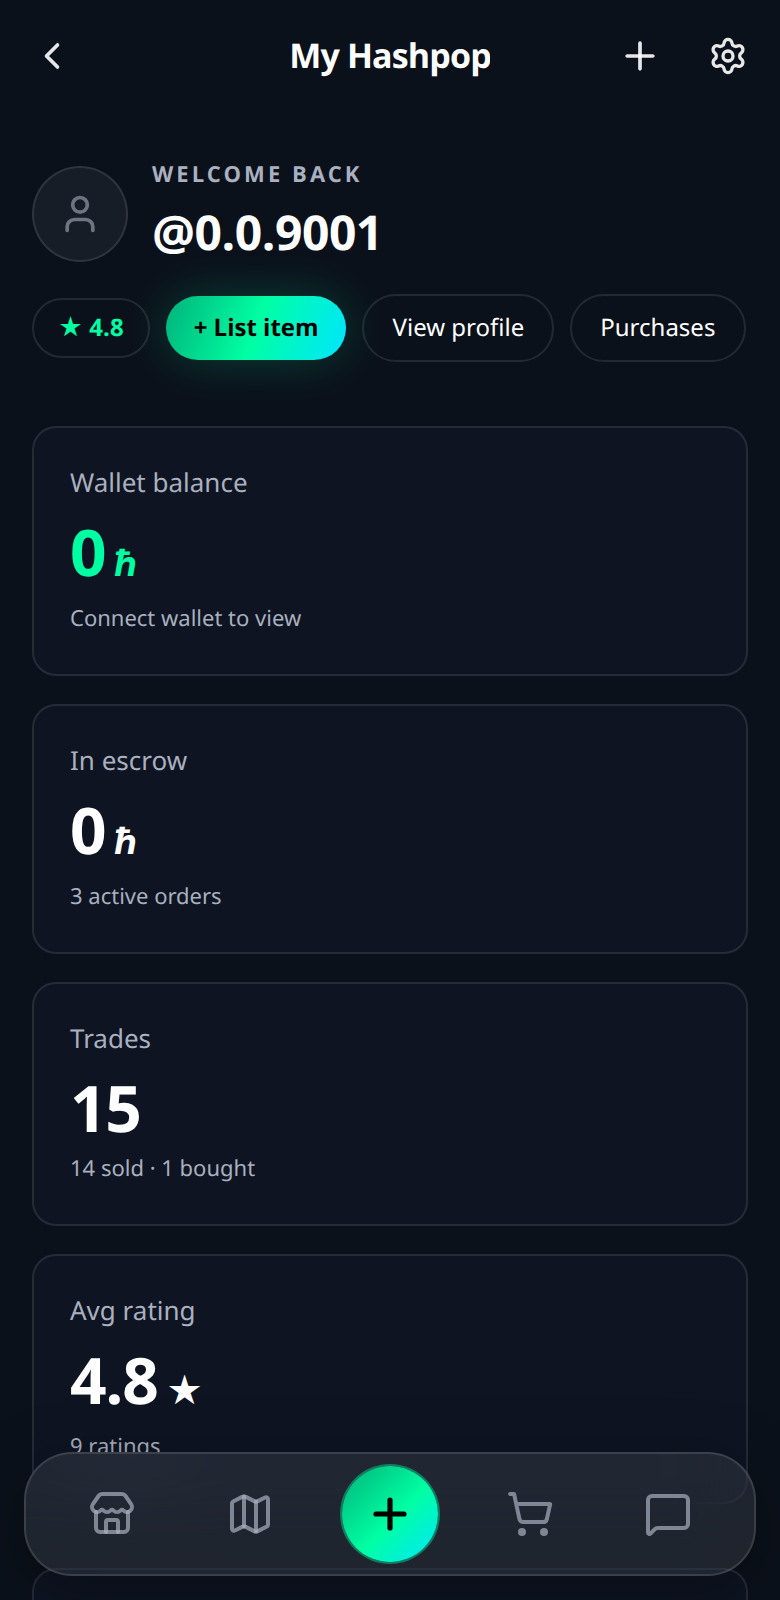
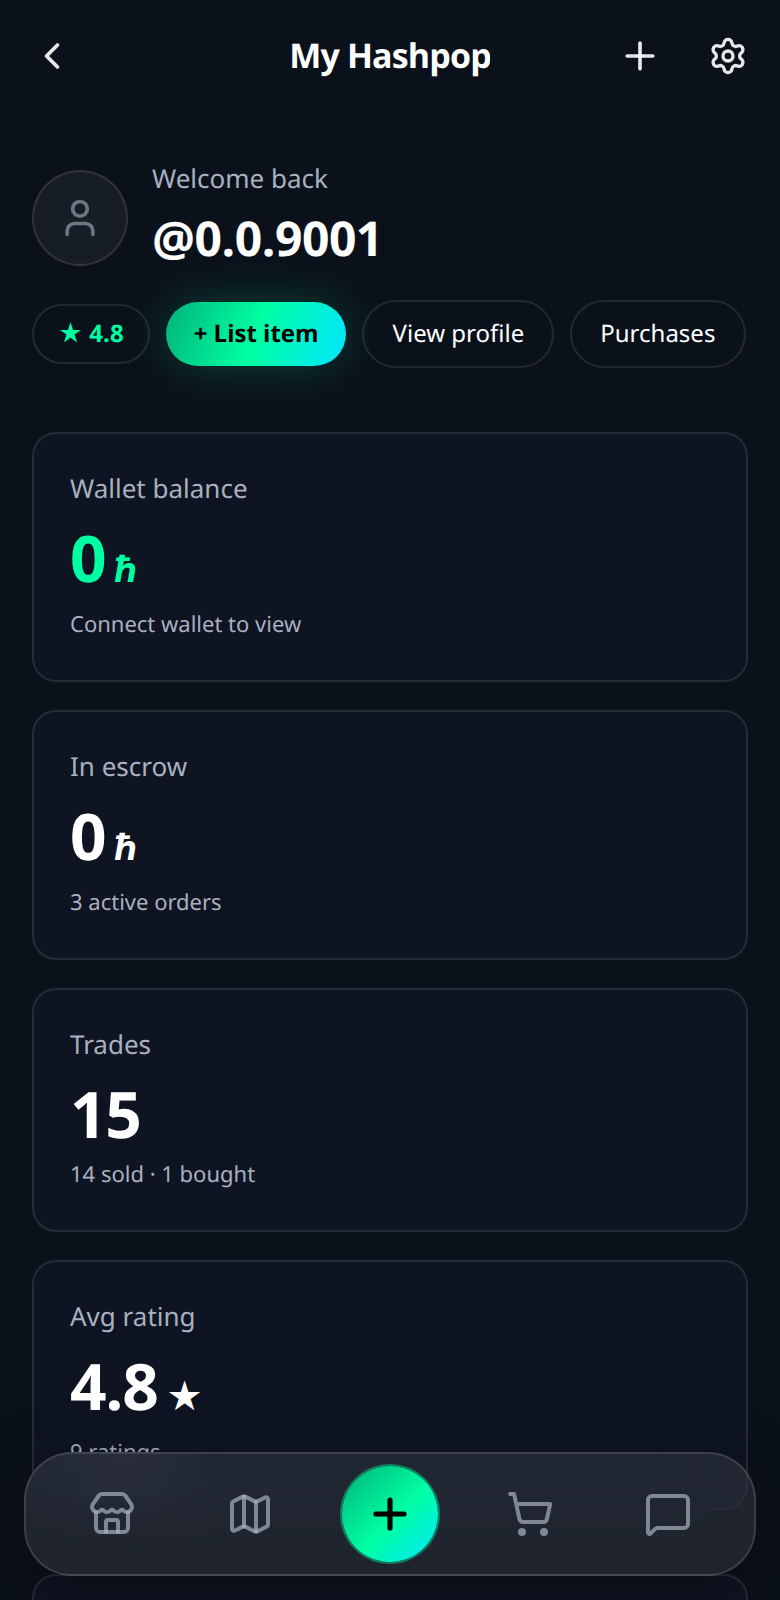
Use sentence case for the My Hashpop welcome eyebrow.
The greeting label was still all-caps with tracking. It now reads Welcome back, matching the KPI labels.

diff --git a/frontend/app/dashboard/page.tsx b/frontend/app/dashboard/page.tsx
@@ -704,9 +704,7 @@ export default function DashboardPage() {
                     </div>
                   )}
                   <div className="min-w-0">
-                    <div className="text-[11px] font-semibold uppercase tracking-[0.14em] text-silver">
-                      Welcome back
-                    </div>
+                    <div className="text-[13px] font-medium text-silver">Welcome back</div>
                     <h1 className="mt-0.5 truncate text-[24px] font-semibold tracking-normal text-white sm:text-[28px]">
                       {displayName ?? (accountId ? `@${accountId}` : "My Hashpop")}
                     </h1>
